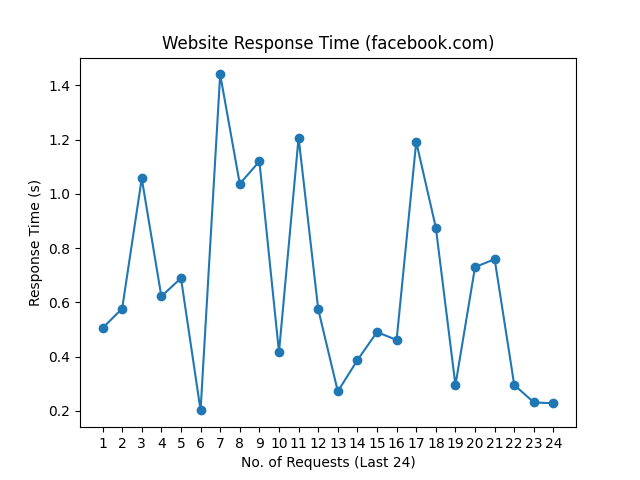
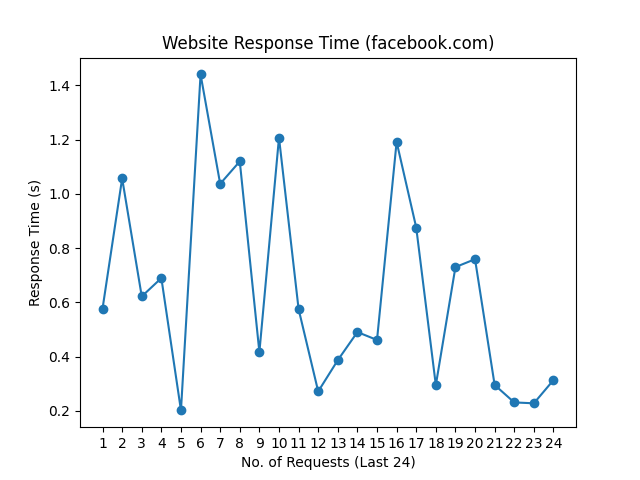
update README.md, history and graph

Changed region(s): [[0.1562, 0.125, 0.875, 0.875]]

diff --git a/README.md b/README.md
@@ -1,10 +1,10 @@
 # Web Monitoring
 
-Last Checked: 16/10/2024 08:19
+Last Checked: 17/10/2024 08:19
 
 | Website | Response Time (s) | Status | Avg Uptime (%) |
 |---------|-------------------|--------|----------------|
 | www.thiswebsiteisdown.net | 0 <br> <img src="graph/thiswebsiteisdown.net.png" alt="Graph" width="200" height="200">  | ❌ Down | 0.00 |
-| www.netflix.com | 0.727715 <br> <img src="graph/netflix.com.png" alt="Graph" width="200" height="200">  | ✅ Up | 100.00 |
-| www.google.com | 0.235771 <br> <img src="graph/google.com.png" alt="Graph" width="200" height="200">  | ✅ Up | 100.00 |
-| www.facebook.com | 0.227740 <br> <img src="graph/facebook.com.png" alt="Graph" width="200" height="200">  | ✅ Up | 100.00 |
+| www.netflix.com | 1.056774 <br> <img src="graph/netflix.com.png" alt="Graph" width="200" height="200">  | ✅ Up | 100.00 |
+| www.google.com | 0.252753 <br> <img src="graph/google.com.png" alt="Graph" width="200" height="200">  | ✅ Up | 100.00 |
+| www.facebook.com | 0.313267 <br> <img src="graph/facebook.com.png" alt="Graph" width="200" height="200">  | ✅ Up | 100.00 |
